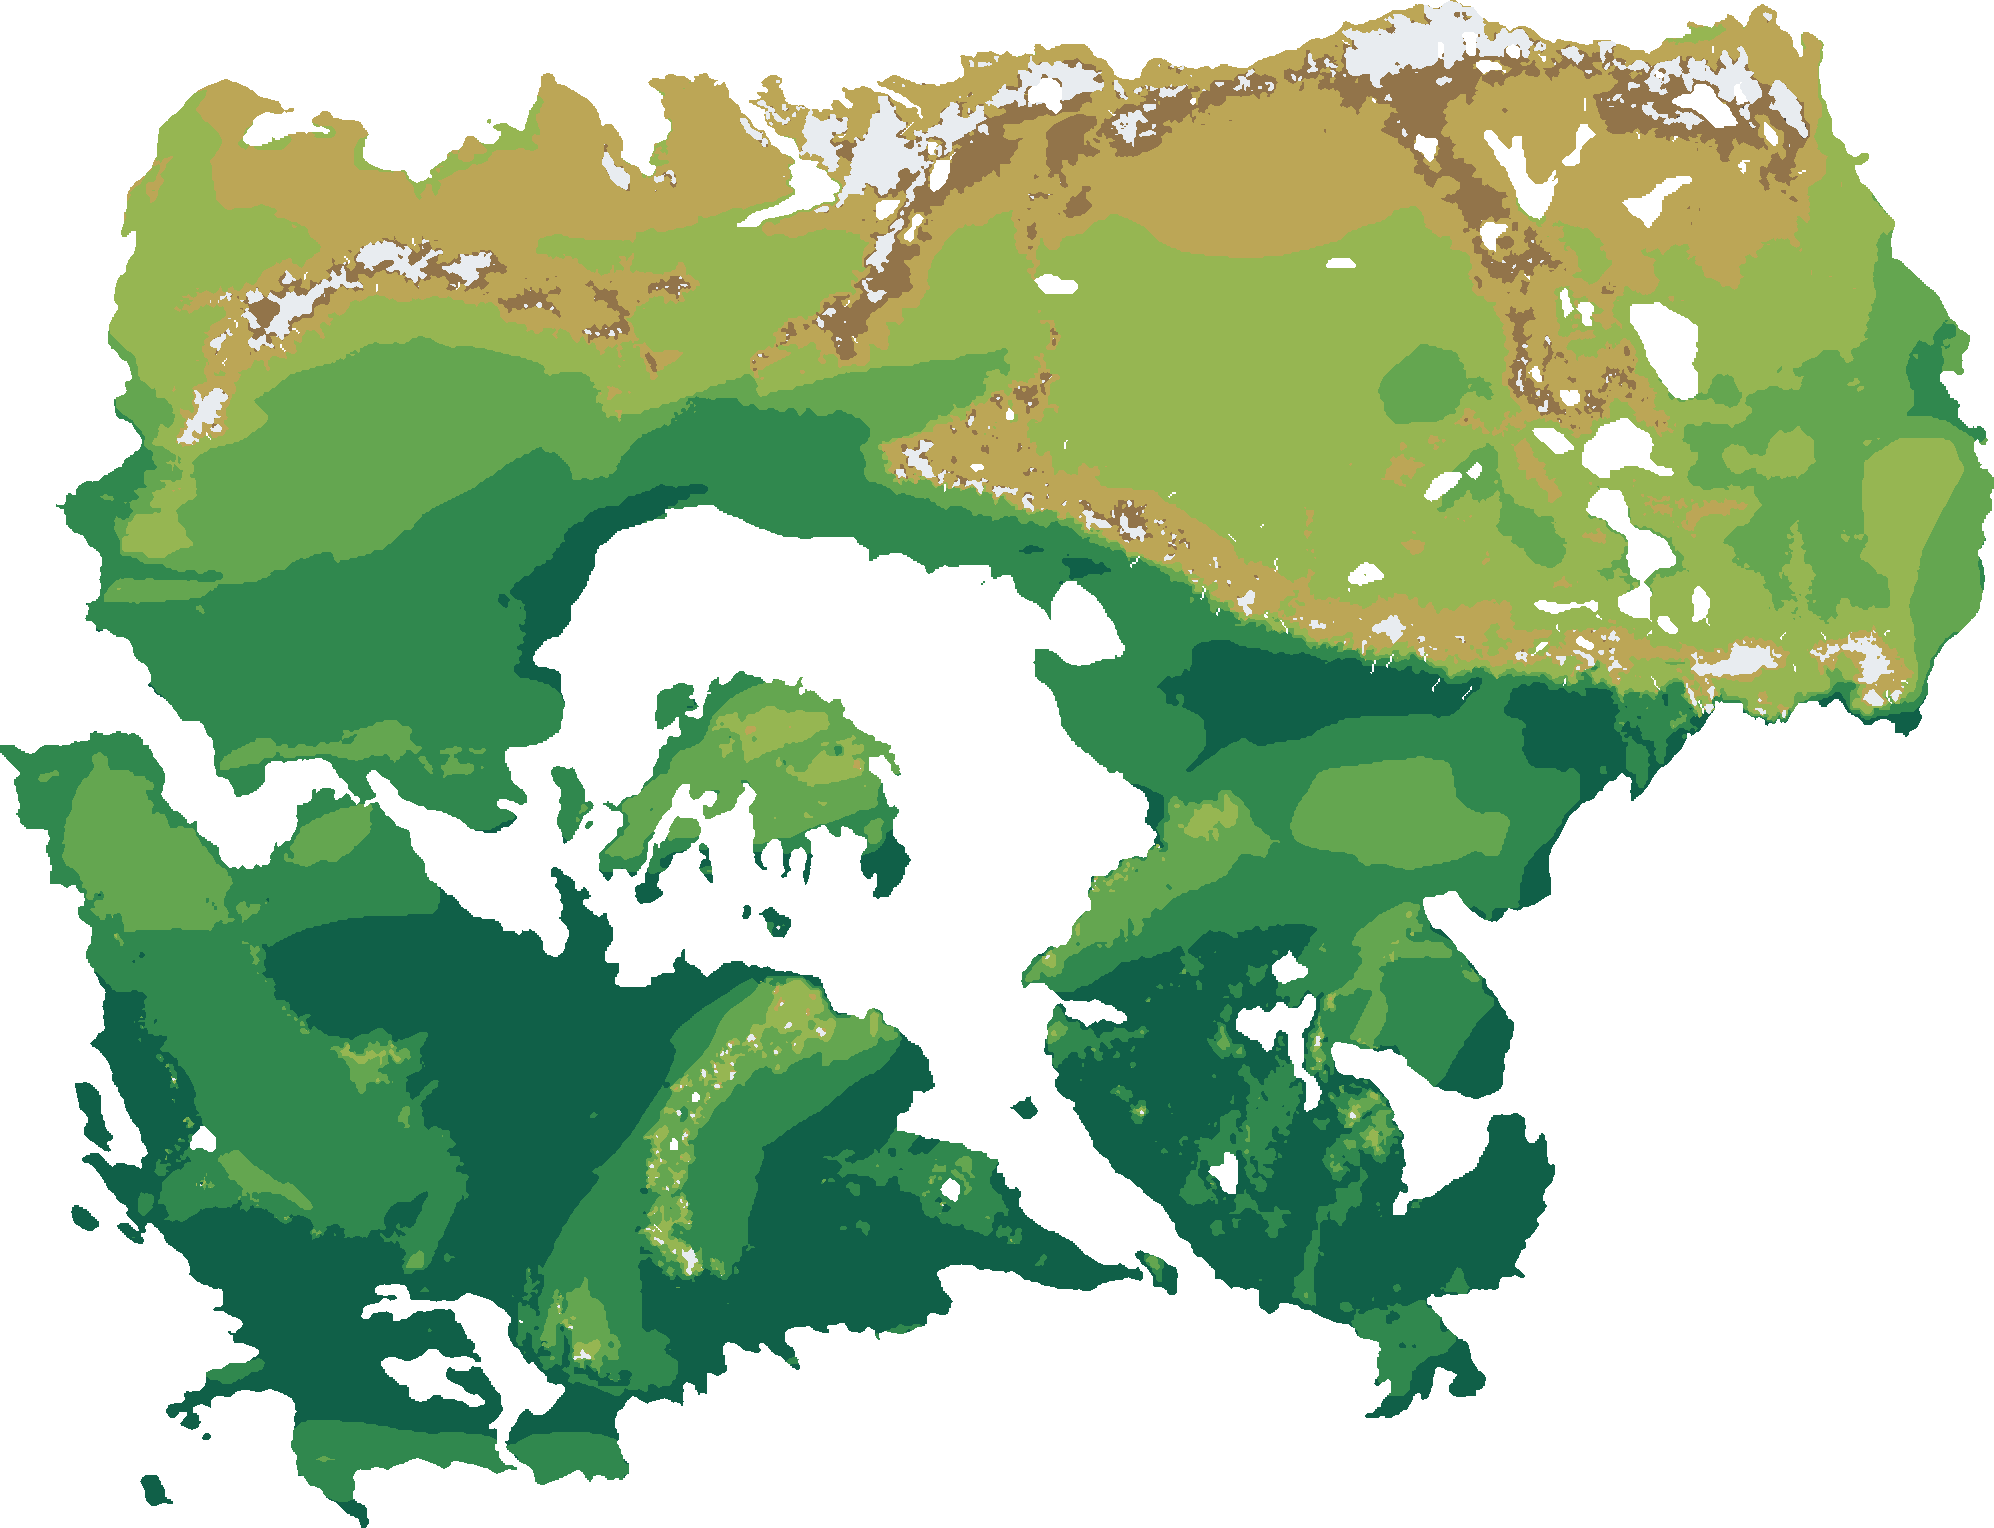
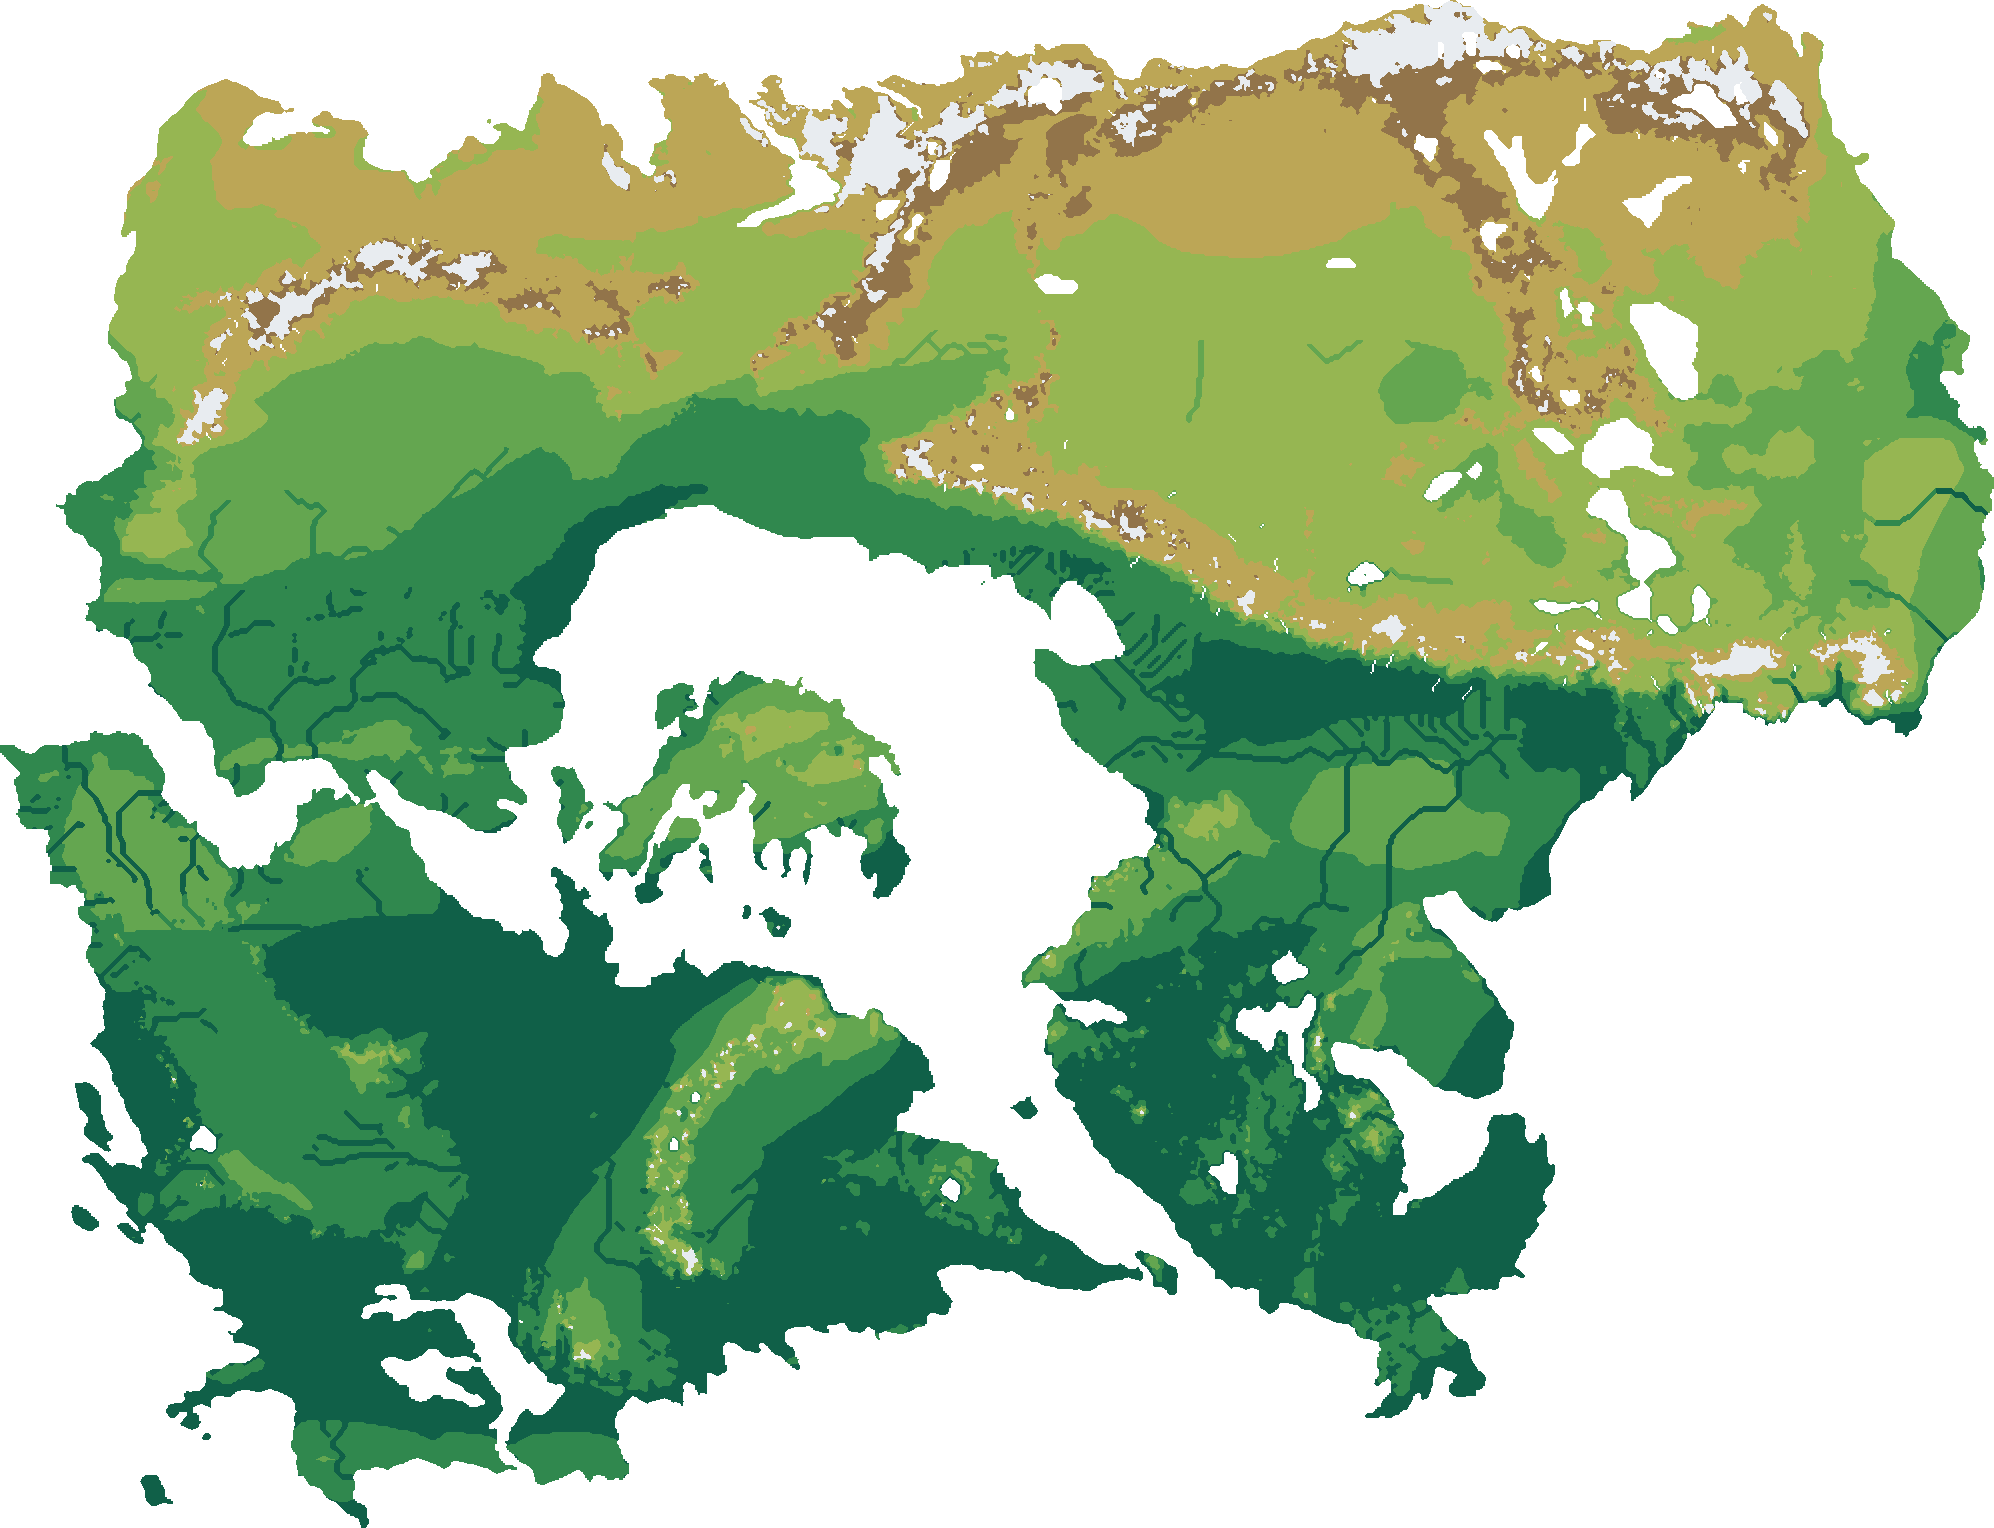
Yaşanabilirlik: nehir ve göl kıyısında su tavanı kalkar
Büyük nehrin 1 hücre çevresi ve göl kıyısı yeraltı suyuna erişimli sayılır
(AET olası buharlaşmaya çıkar); kartta ayrı satır. Karanın %10.6'sı, ortalama
artış 240 g/m²/yıl.

Claude-Session: https://claude.ai/code/session_01X56oZFTqgptLAFmNm82jib

diff --git a/app.js b/app.js
@@ -1057,7 +1057,7 @@ function baslat(J, resimler){
 
   /* --- genel yaşanabilirlik (Arazi > Yaşanabilirlik): yasam/yasam.py'nin net birincil üretim sınıfları.
      Bitki örtüsüyle birebir aynı çizim yolu: data/yasam.png paletli, kabartma
-     "multiply" ile çarpılır, kart data/yasam_veri.png'den okunur (R = sınıf + 16 × sınırlayıcı, G = NPP/12, B = sıcaklık + 100). */
+     "multiply" ile çarpılır, kart data/yasam_veri.png'den okunur (R = sınıf + 16 × sınırlayıcı + 32 × kıyı, G = NPP/12, B = sıcaklık + 100). */
   const YJ = resimler.yasamJ, YS = YJ && resimler.yasam ? resimler.yasam : null, YV = resimler.yasamVeri;
   const ysCv = $("#yasam"), ysC = ysCv.getContext("2d");
   let YK = null;     // {tuval, veri (okuma tuvali)}
@@ -1105,7 +1105,7 @@ function baslat(J, resimler){
     const p = YK.veri.getImageData(x, y, 1, 1).data, c = YJ.siniflar[p[0] & 15]; if(!c) return "";
     const npp = p[1]*12, buz = (p[0] & 15) === 8;
     return `<div class="k-bk"><b>Yaşanabilirlik</b> ${c.ad} · ${c.ne} <small>Dünya'da: ${c.ornek}</small></div>`
-      + (buz ? "" : `<div class="k-bk"><b>Üretim</b> ~${npp.toLocaleString("tr-TR")} g/m²/yıl · yıllık ortalama ${eksi(p[2] - 100)} °C · ${p[0] >> 4 ? "sıcaklık sınırlıyor" : "su sınırlıyor"}</div>`);
+      + (buz ? "" : `<div class="k-bk"><b>Üretim</b> ~${npp.toLocaleString("tr-TR")} g/m²/yıl · yıllık ortalama ${eksi(p[2] - 100)} °C · ${(p[0] >> 4) & 1 ? "sıcaklık sınırlıyor" : "su sınırlıyor"}${p[0] & 32 ? " · nehir ya da göl kıyısı: su erişimi var" : ""}</div>`);
   }
 
   /* --- tektonik katman (Arazi > Levhalar): levha renkleri, sınırlar,

diff --git a/yasam/yasam.py b/yasam/yasam.py
@@ -16,6 +16,11 @@ buharlaşma sürümü kullanıldı: motorun yağışı Dünya'nınkinden fazla v
 formülü şişer. AET zaten su modelinin (su/akim.py) toprak kovasından geçmiş
 gerçek buharlaşmasıdır. Çıktı g kuru madde / m² / yıl.
 
+Nehir ve göl kıyısı: büyük nehrin (debi >= 50, su/disa.py ile aynı eşik) 1
+hücre (~9 km) içinde ve göl kıyısında yeraltı suyuna ve taşkına erişim var;
+su tavanı kalkar, buharlaşma olası buharlaşmaya (PE) çıkar (galeri ormanı,
+vaha etkisi). Sıcaklık tavanı yine geçerli.
+
 Sınırlar (bilerek kaba): ışık, mevsim uzunluğu, toprak besini, eğim, yangın,
 otlayıcı hesaba girmez; yalnız yıllık ortalama sıcaklık ve gerçek buharlaşma.
 Buzul (hiç erimeyen kar) ayrı sınıf. Dünya'nın kara ortalaması bu yöntemle
@@ -64,7 +69,12 @@ def main():
     gol = np.isfinite(su["sev"])
     kara = (z >= 0) & ~gol
     T = d["Tay"].mean(0)
-    n, nt, na = npp(T, d["AET"])
+    q = su["q"]
+    nehir = ndimage.binary_dilation((q >= 50) & ~su["kapali"] & kara, iterations=1)
+    kiyi = ndimage.binary_dilation(gol, iterations=1) & ~gol
+    sulak = (nehir | kiyi) & kara
+    aet = np.where(sulak, np.maximum(d["AET"], d["PE"]), d["AET"])
+    n, nt, na = npp(T, aet)
     sinir = (nt < na).astype(np.uint8)          # 1 = sıcaklık sınırlıyor, 0 = su
     k = np.digitize(n, ESIKLER).astype(np.uint8)
     k = np.clip(k, 1, 7)
@@ -75,6 +85,8 @@ def main():
     ort = float((n * wgt).sum() / wgt.sum())
     for c, (ad, *_r) in SINIF.items():
         print("%d %-16s %%%5.1f" % (c, ad, 100 * pay[c]))
+    print("nehir/göl kıyısı: kara alanının %%%.1f, ortalama NPP artışı %.0f g/m²/yıl" % (
+        100 * float((sulak * wgt).sum() / wgt.sum()), float(((n - npp(T, d["AET"])[0]) * sulak * wgt).sum() / (sulak * wgt).sum())))
     print("kara ortalaması %.0f g/m²/yıl; sıcaklık sınırlı pay %%%.0f" % (ort, 100 * float(((sinir == 1) * wgt).sum() / wgt.sum())))
     ii, jj = np.where(kara)
     i0, i1, j0, j1 = ii.min(), ii.max() + 1, jj.min(), jj.max() + 1
@@ -100,8 +112,8 @@ def main():
     im.save(os.path.join(KOK, "data", "yasam.png"), optimize=True, transparency=0)
     dl, dn = lat[1] - lat[0], lon[1] - lon[0]
     kesit = [float(lon[j0] - dn / 2), float(lat[i1 - 1] + dl / 2), float(lon[j1 - 1] + dn / 2), float(lat[i0] - dl / 2)]
-    # kart: R = sınıf + 16 * sınırlayıcı (1 sıcaklık), G = NPP / 12, B = yıllık sıcaklık + 100
-    r = kc + 16 * sinir[i0:i1, j0:j1]
+    # kart: R = sınıf + 16 * sınırlayıcı (1 sıcaklık) + 32 * nehir/göl kıyısı, G = NPP / 12, B = yıllık sıcaklık + 100
+    r = kc + 16 * sinir[i0:i1, j0:j1] + 32 * sulak[i0:i1, j0:j1]
     g_ = np.clip(np.round(n[i0:i1, j0:j1] / 12), 0, 255)
     b_ = np.clip(np.round(T[i0:i1, j0:j1] + 100), 0, 255)
     Image.fromarray(np.stack([r, g_, b_], -1).astype(np.uint8), "RGB").save(os.path.join(KOK, "data", "yasam_veri.png"), optimize=True)

diff --git a/YASAM.md b/YASAM.md
@@ -30,9 +30,18 @@ bölünerek okunur hâle getirildi.
 
 ## Sonuç (kara alanına göre, 28 Eylül)
 
-Çok kıt %0.0, çok düşük %2.4, düşük %12.0, orta %18.0, yüksek %14.9, çok yüksek
-%26.9, uç düzey %23.9, buz %1.9. Kara ortalaması 1256 g/m²/yıl; alanın %27'sinde
+Çok kıt %0.0, çok düşük %2.4, düşük %12.0, orta %17.7, yüksek %14.6, çok yüksek
+%25.1, uç düzey %26.3, buz %1.9. Kara ortalaması 1281 g/m²/yıl; alanın %29'unda
 sıcaklık, geri kalanında su sınırlayıcı.
+
+## Nehir ve göl kıyısı (28 Eylül, sahibi sordu: "nehir çevreleri falan ayırdın mı")
+
+İlk sürümde yoktu; yalnız yıllık sıcaklık ve AET vardı. Şimdi büyük nehrin
+(debi >= 50) 1 hücre (~9 km) çevresi ve göl kıyısı su erişimli sayılır: AET,
+olası buharlaşma (PE) düzeyine çıkar, yani su tavanı kalkar, sıcaklık tavanı
+kalır. Karanın %10.6'sı bu bölgede, ortalama artış 240 g/m²/yıl. Kartta
+"nehir ya da göl kıyısı: su erişimi var" satırı çıkar (R'nin 32 bitinde).
+Gerçek taşkın ovası genişliği bundan çok daha değişken; 1 hücre kabaca ölçüdür.
 
 ## Sınırlar (bilerek kaba)
 
